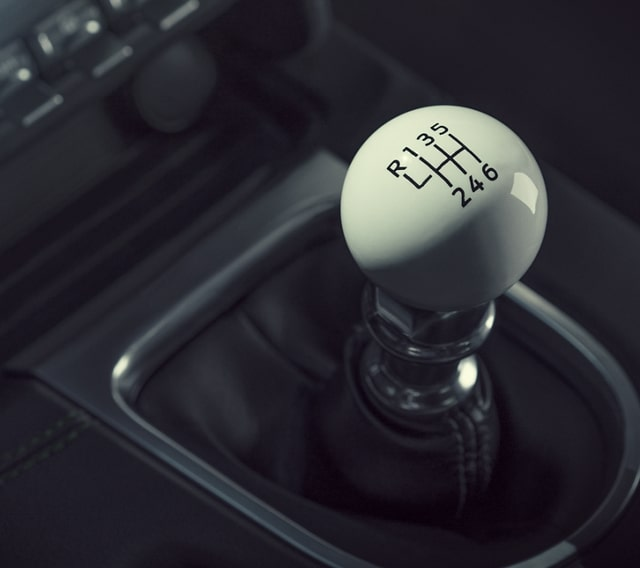
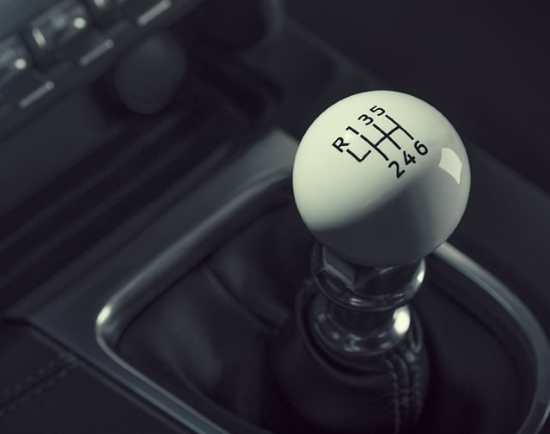
Image sizes optimized

diff --git a/index.html b/index.html
@@ -46,7 +46,7 @@
   <!-- Desktop Navbar - End -->
   <section class="section-1">
     <div class="container">
-      <img src="img/front.webp" alt="showcase-image" data-aos="zoom-in" data-aos-duration="3000">
+      <img src="img/front.png" alt="showcase-image" data-aos="zoom-in" data-aos-duration="3000">
       <div>
         <h1>The New 2019 Mustang</h1>
         <p>
@@ -73,7 +73,7 @@
   <section class="section-3" id="features">
     <div class="container">
       <div class="card" data-aos="fade-left">
-        <img src="img/engine-2.webp" alt="engine">
+        <img src="img/engine.jpg" alt="engine">
         <div>
           <h3>New Performance Engine</h3>
           <p>
@@ -83,7 +83,7 @@
         </div>
       </div>
       <div class="card" data-aos="fade-right">
-        <img src="img/steering-wheel-2.webp" alt="interior">
+        <img src="img/steering-wheel.jpg" alt="interior">
         <div>
           <h3>Updated Interior</h3>
           <p>
@@ -93,7 +93,7 @@
         </div>
       </div>
       <div class="card" data-aos="fade-left">
-        <img src="img/manual-transmission-2.webp" alt="manual">
+        <img src="img/manual-transmission.jpg" alt="manual">
         <div>
           <h3>Manual Transmission Comes Standard</h3>
           <p>
@@ -106,23 +106,23 @@
   </section>
   <section class="section-4" id="gallery">
     <div class="gallery">
-      <a href="img/burnout-1.webp" class="big" data-aos="fade-right">
-        <img src="img/burnout-1.webp" alt="burnout-1">
+      <a href="img/burnout-1.jpg" class="big" data-aos="fade-right">
+        <img src="img/burnout-1.jpg" alt="burnout-1">
       </a>
-      <a href="img/gauge-cluster.webp" class="big" data-aos="flip-left">
-        <img src="img/gauge-cluster.webp" alt="picture_2">
+      <a href="img/gauge-cluster.jpg" class="big" data-aos="flip-left">
+        <img src="img/gauge-cluster.jpg" alt="picture_2">
       </a>
-      <a href="img/bullitt.webp" class="big" data-aos="fade-down-left">
-        <img src="img/bullitt.webp" alt="bullitt">
+      <a href="img/bullitt.jpg" class="big" data-aos="fade-down-left">
+        <img src="img/bullitt.jpg" alt="bullitt">
       </a>
-      <a href="img/convertible.webp" class="big" data-aos="zoom-in">
-        <img src="img/convertible.webp" alt="convertible">
+      <a href="img/convertible.jpg" class="big" data-aos="zoom-in">
+        <img src="img/convertible.jpg" alt="convertible">
       </a>
-      <a href="img/interior.webp" class="big" data-aos="fade-up">
-        <img src="img/interior.webp" alt="interior">
+      <a href="img/interior.jpg" class="big" data-aos="fade-up">
+        <img src="img/interior.jpg" alt="interior">
       </a>
-      <a href="img/burnout-2.webp" class="big" data-aos="fade-up-left">
-        <img src="img/burnout-2.webp" alt="burnout-2">
+      <a href="img/burnout-2.jpg" class="big" data-aos="fade-up-left">
+        <img src="img/burnout-2.jpg" alt="burnout-2">
       </a>
     </div>
   </section>

diff --git a/css/style.css b/css/style.css
@@ -119,7 +119,7 @@ img {
 /* Section 2 - Start */
 .section-2 {
   position: relative;
-  background-image: url('../img/rear.webp');
+  background-image: url('../img/rear.png');
   background-position: center center;
   background-size: contain;
   background-repeat: no-repeat;
